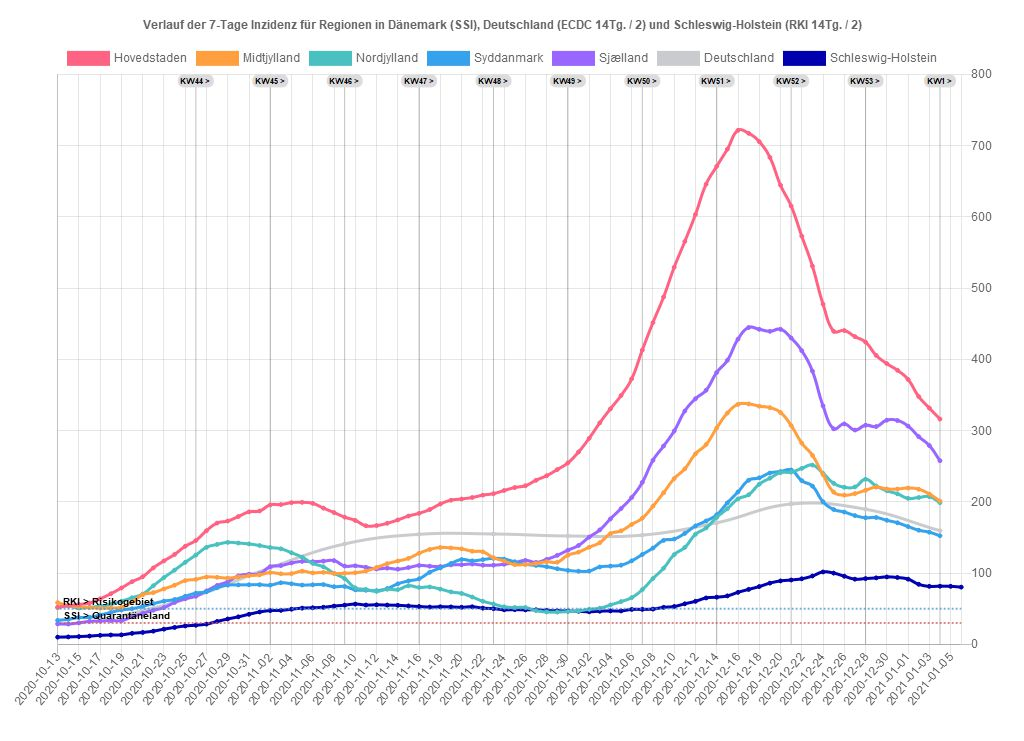
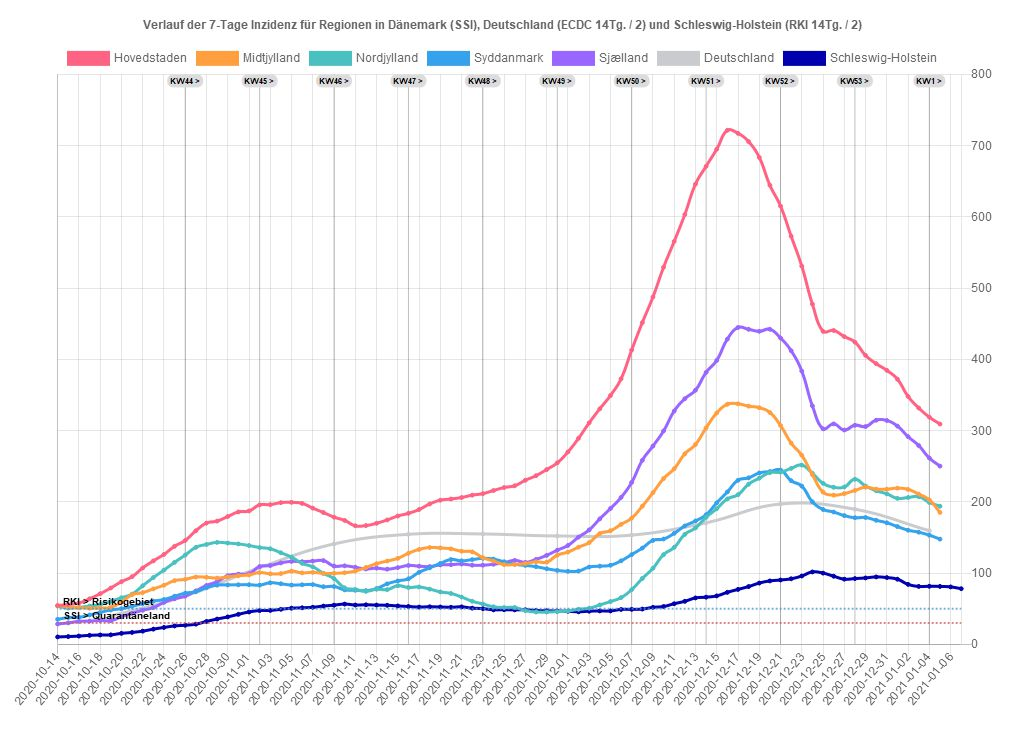
07.01.2021 14:20:25,24

diff --git a/dk/regioner.js b/dk/regioner.js
@@ -1,44 +1,44 @@
 var chdata={ type:'line',
-last_update: '2021-01-06',
-last_dk_data: '2021-01-04',
+last_update: '2021-01-07',
+last_dk_data: '2021-01-05',
 data: {
-labels: ["2020-10-13","2020-10-14","2020-10-15","2020-10-16","2020-10-17","2020-10-18","2020-10-19","2020-10-20","2020-10-21","2020-10-22","2020-10-23","2020-10-24","2020-10-25","2020-10-26","2020-10-27","2020-10-28","2020-10-29","2020-10-30","2020-10-31","2020-11-01","2020-11-02","2020-11-03","2020-11-04","2020-11-05","2020-11-06","2020-11-07","2020-11-08","2020-11-09","2020-11-10","2020-11-11","2020-11-12","2020-11-13","2020-11-14","2020-11-15","2020-11-16","2020-11-17","2020-11-18","2020-11-19","2020-11-20","2020-11-21","2020-11-22","2020-11-23","2020-11-24","2020-11-25","2020-11-26","2020-11-27","2020-11-28","2020-11-29","2020-11-30","2020-12-01","2020-12-02","2020-12-03","2020-12-04","2020-12-05","2020-12-06","2020-12-07","2020-12-08","2020-12-09","2020-12-10","2020-12-11","2020-12-12","2020-12-13","2020-12-14","2020-12-15","2020-12-16","2020-12-17","2020-12-18","2020-12-19","2020-12-20","2020-12-21","2020-12-22","2020-12-23","2020-12-24","2020-12-25","2020-12-26","2020-12-27","2020-12-28","2020-12-29","2020-12-30","2020-12-31","2021-01-01","2021-01-02","2021-01-03","2021-01-04","2021-01-05","2021-01-06"],
+labels: ["2020-10-14","2020-10-15","2020-10-16","2020-10-17","2020-10-18","2020-10-19","2020-10-20","2020-10-21","2020-10-22","2020-10-23","2020-10-24","2020-10-25","2020-10-26","2020-10-27","2020-10-28","2020-10-29","2020-10-30","2020-10-31","2020-11-01","2020-11-02","2020-11-03","2020-11-04","2020-11-05","2020-11-06","2020-11-07","2020-11-08","2020-11-09","2020-11-10","2020-11-11","2020-11-12","2020-11-13","2020-11-14","2020-11-15","2020-11-16","2020-11-17","2020-11-18","2020-11-19","2020-11-20","2020-11-21","2020-11-22","2020-11-23","2020-11-24","2020-11-25","2020-11-26","2020-11-27","2020-11-28","2020-11-29","2020-11-30","2020-12-01","2020-12-02","2020-12-03","2020-12-04","2020-12-05","2020-12-06","2020-12-07","2020-12-08","2020-12-09","2020-12-10","2020-12-11","2020-12-12","2020-12-13","2020-12-14","2020-12-15","2020-12-16","2020-12-17","2020-12-18","2020-12-19","2020-12-20","2020-12-21","2020-12-22","2020-12-23","2020-12-24","2020-12-25","2020-12-26","2020-12-27","2020-12-28","2020-12-29","2020-12-30","2020-12-31","2021-01-01","2021-01-02","2021-01-03","2021-01-04","2021-01-05","2021-01-06","2021-01-07"],
 datasets: [
 {label: 'Hovedstaden',
 backgroundColor: window.chartColors.red,
 borderColor: window.chartColors.red,
 fill: false,
-data: [52.1,54.4,55.9,58.0,63.9,71.0,79.1,87.9,94.9,107.3,117.1,126.2,137.6,145.8,159.5,170.2,173.1,179.4,185.9,187.2,195.7,196.2,198.9,199.3,197.8,191.2,185.0,178.5,173.9,166.4,166.7,169.9,174.6,180.1,183.9,189.2,197.0,202.3,204.0,206.1,209.4,211.5,215.9,220.1,222.6,230.3,236.7,245.3,254.7,270.0,289.2,310.9,330.6,349.2,372.7,413.1,451.6,487.5,529.3,565.6,603.4,645.9,671.0,695.0,721.5,717.3,705.6,683.5,644.4,615.2,572.9,530.9,477.5,439.4,440.4,431.9,424.2,405.6,394.0,384.7,371.8,347.8,331.6,316.2]},
+data: [54.4,55.9,58.0,63.9,71.0,79.1,87.9,94.9,107.2,117.1,126.2,137.6,145.8,159.4,170.2,173.0,179.4,185.8,187.2,195.7,196.1,198.9,199.3,197.8,191.2,185.0,178.5,173.9,166.4,166.7,169.9,174.6,180.1,183.9,189.2,197.0,202.3,204.0,206.1,209.4,211.5,215.9,220.1,222.6,230.3,236.7,245.3,254.7,270.0,289.2,310.9,330.6,349.2,372.7,413.1,451.6,487.5,529.3,565.6,603.4,645.9,671.0,695.0,721.5,717.3,705.6,683.5,644.4,615.2,572.9,530.9,477.5,439.4,440.5,432.0,424.2,405.6,393.9,384.6,372.1,348.0,331.8,318.9,309.2]},
 {label: 'Midtjylland',
 backgroundColor: window.chartColors.orange,
 borderColor: window.chartColors.orange,
 fill: false,
-data: [58.6,54.4,52.5,51.6,50.7,51.0,52.0,59.3,69.6,72.6,77.8,83.0,89.4,91.2,94.5,94.1,93.0,94.6,96.3,97.5,100.7,99.0,99.3,102.7,100.3,101.0,99.6,99.7,100.5,102.9,107.9,113.2,116.9,120.7,127.8,133.2,135.9,135.3,134.0,130.7,129.8,121.6,116.9,111.9,112.1,113.4,115.9,115.3,125.1,129.4,136.3,142.7,155.4,159.3,168.3,177.1,193.9,212.8,232.7,246.4,267.4,280.4,303.8,324.6,336.9,337.5,334.3,332.2,325.4,307.2,282.5,265.3,238.2,213.7,209.4,211.6,216.2,220.7,218.1,218.0,219.4,217.7,211.0,201.1]},
+data: [54.4,52.5,51.6,50.7,51.0,52.0,59.3,69.6,72.6,77.8,83.0,89.4,91.2,94.5,94.1,93.0,94.6,96.3,97.5,100.7,99.0,99.3,102.7,100.3,101.0,99.6,99.7,100.5,102.9,107.9,113.2,116.9,120.7,127.8,133.2,135.9,135.3,134.0,130.7,129.8,121.6,116.9,111.9,112.1,113.4,115.9,115.3,125.1,129.5,136.4,142.8,155.5,159.4,168.4,177.2,193.9,212.8,232.7,246.5,267.4,280.5,303.9,324.7,336.9,337.6,334.3,332.2,325.4,307.2,282.5,265.3,238.2,213.7,209.4,211.6,216.0,220.5,217.9,217.8,219.2,217.5,210.9,202.7,185.2]},
 {label: 'Nordjylland',
 backgroundColor: window.chartColors.green,
 borderColor: window.chartColors.green,
 fill: false,
-data: [51.5,53.7,50.9,51.9,53.6,55.9,60.5,65.4,70.5,82.2,93.7,104.2,115.1,125.3,136.1,140.2,143.1,142.2,140.9,138.7,135.9,134.1,128.5,122.4,113.6,108.8,99.7,92.2,79.3,77.1,74.4,77.3,76.8,82.2,79.8,80.5,77.5,73.6,71.4,66.4,60.5,56.6,52.7,51.7,51.7,47.3,45.4,45.3,45.9,46.8,49.2,50.7,55.3,60.0,65.6,76.8,92.4,106.8,125.9,136.1,154.4,163.4,178.3,190.4,204.1,210.0,224.8,233.2,241.0,241.7,247.0,251.6,240.0,226.1,220.5,220.9,231.7,222.2,215.6,211.2,204.9,206.1,207.3,198.8]},
+data: [53.7,50.9,51.9,53.6,55.9,60.5,65.4,70.5,82.2,93.7,104.2,115.1,125.3,136.1,140.2,143.1,142.2,140.9,138.7,135.9,134.1,128.5,122.4,113.6,108.8,99.7,92.2,79.3,77.1,74.4,77.3,76.8,82.2,79.8,80.5,77.5,73.6,71.4,66.4,60.5,56.6,52.7,51.7,51.7,47.3,45.4,45.3,45.9,46.8,49.2,50.7,55.3,60.0,65.6,76.8,92.4,106.8,125.9,136.1,154.4,163.4,178.3,190.4,204.1,210.0,224.8,233.2,241.0,241.7,247.0,251.6,240.0,226.1,220.5,220.9,231.7,222.2,215.6,211.2,204.9,206.1,207.3,199.2,193.9]},
 {label: 'Syddanmark',
 backgroundColor: window.chartColors.blue,
 borderColor: window.chartColors.blue,
 fill: false,
-data: [33.6,35.1,37.5,37.9,41.2,44.8,48.2,50.0,53.3,57.1,60.6,62.9,67.5,71.8,73.8,79.6,83.1,83.4,83.6,83.7,83.1,86.4,85.0,83.2,83.6,83.9,80.9,81.2,76.5,75.9,75.4,78.3,84.9,89.0,92.0,101.1,107.3,113.6,119.0,117.2,118.9,120.7,119.6,115.9,112.4,110.8,109.0,106.1,103.8,102.6,102.9,108.6,109.8,111.1,117.2,126.1,135.1,145.9,147.8,155.8,166.2,173.2,181.9,198.6,213.9,230.3,233.7,240.5,242.5,244.7,229.7,222.1,200.1,189.3,185.7,180.7,177.7,178.0,174.1,170.6,165.3,160.2,157.4,152.4]},
+data: [35.1,37.5,37.9,41.2,44.8,48.2,50.0,53.3,57.1,60.6,62.9,67.5,71.8,73.8,79.6,83.1,83.4,83.6,83.7,83.1,86.4,85.0,83.2,83.6,83.9,80.9,81.2,76.5,75.9,75.4,78.3,84.9,89.0,92.0,101.1,107.3,113.6,119.0,117.2,118.9,120.7,119.6,115.9,112.4,110.8,109.0,106.1,103.8,102.5,102.9,108.5,109.7,111.0,117.2,126.0,135.1,145.9,147.8,155.8,166.2,173.2,181.9,198.6,213.9,230.3,233.7,240.5,242.5,244.7,229.7,222.1,200.1,189.3,185.7,180.7,177.7,178.0,174.1,170.6,165.3,160.2,157.4,153.2,147.7]},
 {label: 'Sjælland',
 backgroundColor: window.chartColors.purple,
 borderColor: window.chartColors.purple,
 fill: false,
-data: [28.7,28.5,30.1,32.2,32.6,33.4,33.2,38.7,43.5,47.8,51.5,58.8,64.0,67.6,75.0,82.6,87.9,96.1,98.4,99.0,109.0,110.5,114.2,116.4,116.0,116.8,117.5,109.9,110.2,108.2,105.8,106.9,105.5,107.7,110.7,109.7,109.2,111.5,111.8,112.7,111.1,111.1,112.4,114.6,117.8,115.0,119.2,124.9,132.1,138.8,150.5,160.6,176.1,190.6,206.2,227.4,258.3,278.3,299.5,327.5,344.8,356.7,381.7,398.6,428.4,444.7,442.2,439.4,442.2,430.0,412.1,383.5,334.7,302.5,309.4,300.8,307.5,305.7,314.6,314.2,306.3,291.5,279.0,257.7]},
+data: [28.5,30.1,32.2,32.6,33.4,33.2,38.7,43.5,47.8,51.5,58.8,64.0,67.6,75.0,82.6,88.0,96.3,98.5,99.1,109.2,110.6,114.3,116.4,116.0,116.8,117.5,109.9,110.2,108.2,105.8,106.9,105.5,107.7,110.7,109.7,109.2,111.5,111.8,112.7,111.1,111.1,112.4,114.6,117.8,115.0,119.2,124.9,132.1,138.8,150.5,160.6,176.1,190.6,206.2,227.4,258.3,278.3,299.5,327.5,344.8,356.7,381.7,398.6,428.4,444.7,442.2,439.4,442.2,430.0,412.1,383.5,334.7,302.5,309.4,300.8,307.5,305.7,314.6,314.2,306.3,291.5,279.0,261.5,250.2]},
 {label: 'Deutschland',
 backgroundColor: window.chartColors.grey,
 borderColor: window.chartColors.grey,
 spanGaps: true,
 fill: false,
-data: [,,,,,,39.6,,,,,,,67.8,,,,,,,107.6,,,,,,,140.9,,,,,,,154.4,,,,,,,154.9,,,,,,,152.1,,,,,,,153.3,,,,,,,170.6,,,,,,,196.9,,,,,,,189.6,,,,,,,159.5,,]},
+data: [,,,,,39.6,,,,,,,67.8,,,,,,,107.6,,,,,,,140.9,,,,,,,154.4,,,,,,,154.9,,,,,,,152.1,,,,,,,153.3,,,,,,,170.6,,,,,,,196.9,,,,,,,189.6,,,,,,,159.5,,,]},
 {label: 'Schleswig-Holstein',
 backgroundColor: '#0000AF',
 borderColor: '#0000AF',
 fill: false,
-data: [10.1,10.4,10.9,11.6,12.6,13.1,13.3,15.4,16.7,18.5,21.3,23.7,25.8,26.8,28.4,32.1,35.6,38.6,42.2,45.4,47.4,47.7,49.3,50.8,51.3,52.0,53.7,55.0,56.5,55.2,55.5,55.1,54.8,53.9,53.1,52.3,52.7,52.5,52.0,52.7,50.8,50.1,48.5,48.7,48.4,48.5,47.5,47.1,46.7,46.4,45.7,46.5,46.9,46.9,49.0,49.1,49.5,51.9,53.1,56.9,60.4,65.1,66.2,68.0,73.0,77.1,81.1,85.9,89.0,90.3,92.0,95.9,101.6,100.0,95.6,91.5,92.3,93.3,94.6,93.8,91.5,84.3,81.4,81.6,81.4,80.3]}
+data: [10.4,10.9,11.6,12.6,13.1,13.3,15.4,16.7,18.5,21.3,23.7,25.8,26.8,28.3,32.1,35.5,38.5,42.1,45.4,47.4,47.6,49.2,50.7,51.3,52.0,53.7,55.0,56.5,55.2,55.5,55.1,54.8,53.9,53.1,52.3,52.7,52.4,52.0,52.6,50.8,50.1,48.5,48.6,48.4,48.5,47.5,47.1,46.7,46.4,45.7,46.5,46.9,46.9,49.0,49.1,49.5,51.9,53.1,57.0,60.4,65.1,66.2,68.0,73.0,77.1,81.1,86.0,89.0,90.3,92.0,95.9,101.6,100.0,95.6,91.5,92.3,93.2,94.6,93.7,91.4,84.2,81.3,81.5,81.3,80.6,78.1]}
 ]}};
 

diff --git a/sh/index_sh_alter.html b/sh/index_sh_alter.html
@@ -5,7 +5,7 @@
 <meta property="og:image" content="index_sh_alter.jpg" />
 <meta property="og:type" content="website" />
 <meta property="og:locale" content="de_DE" />
-<meta property="og:updated_time" content="2021-01-07T13:05:53+01:00" />
+<meta property="og:updated_time" content="2021-01-07T14:20:25+01:00" />
 <title>Altersverteilung der COVID-19-Fälle in Schleswig-Holstein</title>
 <link rel="stylesheet" href="../css/style.css" media="screen" type="text/css">
 <link rel="stylesheet" media="screen" href="Chart.min.css"> 

diff --git a/sh/index_pi_alter.html b/sh/index_pi_alter.html
@@ -5,7 +5,7 @@
 <meta property="og:image" content="index_pi_alter.jpg" />
 <meta property="og:type" content="website" />
 <meta property="og:locale" content="de_DE" />
-<meta property="og:updated_time" content="2021-01-07T13:05:53+01:00" />
+<meta property="og:updated_time" content="2021-01-07T14:20:25+01:00" />
 <title>Altersverteilung der COVID-19-Fälle im Kreis Pinneberg</title>
 <link rel="stylesheet" href="../css/style.css" media="screen" type="text/css">
 <link rel="stylesheet" media="screen" href="Chart.min.css"> 

diff --git a/sh/index.html b/sh/index.html
@@ -5,7 +5,7 @@
 <meta property="og:image" content="index.jpg" />
 <meta property="og:type" content="website" />
 <meta property="og:locale" content="de_DE" />
-<meta property="og:updated_time" content="2021-01-07T13:05:53+01:00" />
+<meta property="og:updated_time" content="2021-01-07T14:20:25+01:00" />
 <title>COVID-19-Fälle im Kreis Pinneberg</title>
 <link rel="stylesheet" href="../css/style.css" media="screen" type="text/css">
 <link rel="stylesheet" media="screen" href="Chart.min.css"> 
